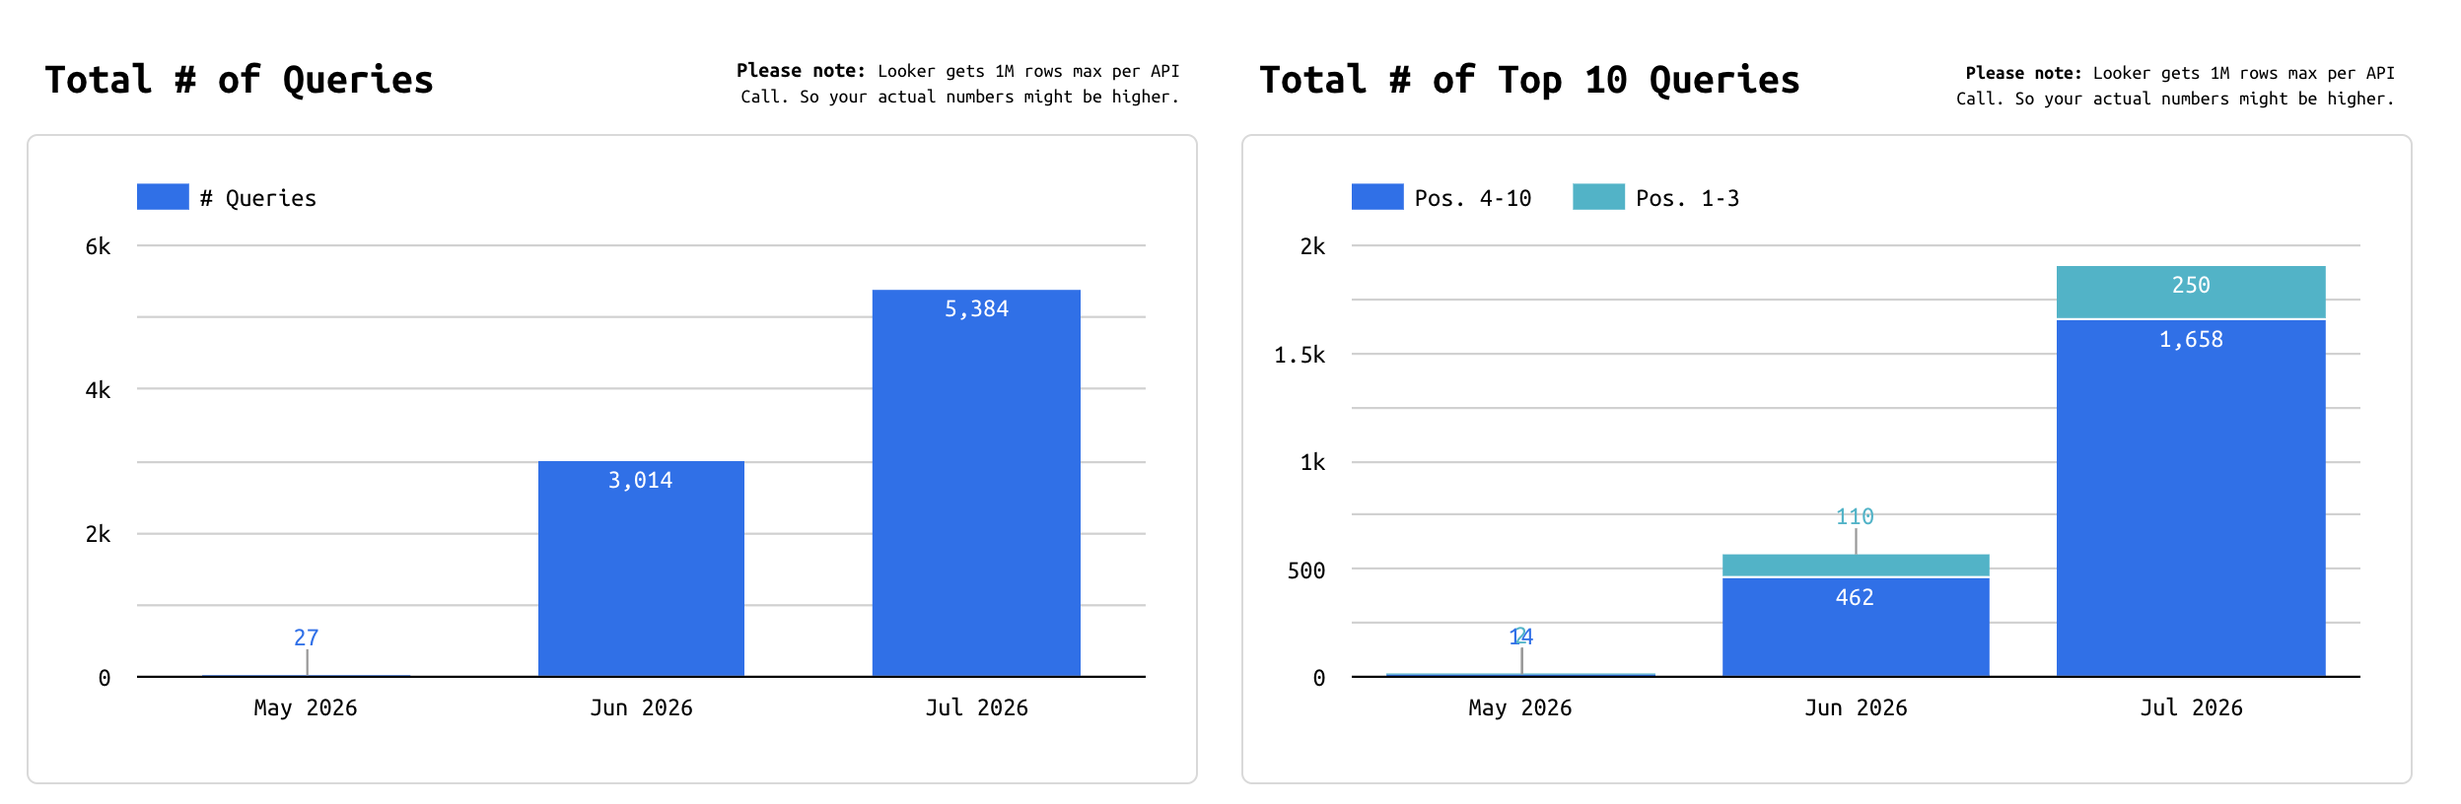
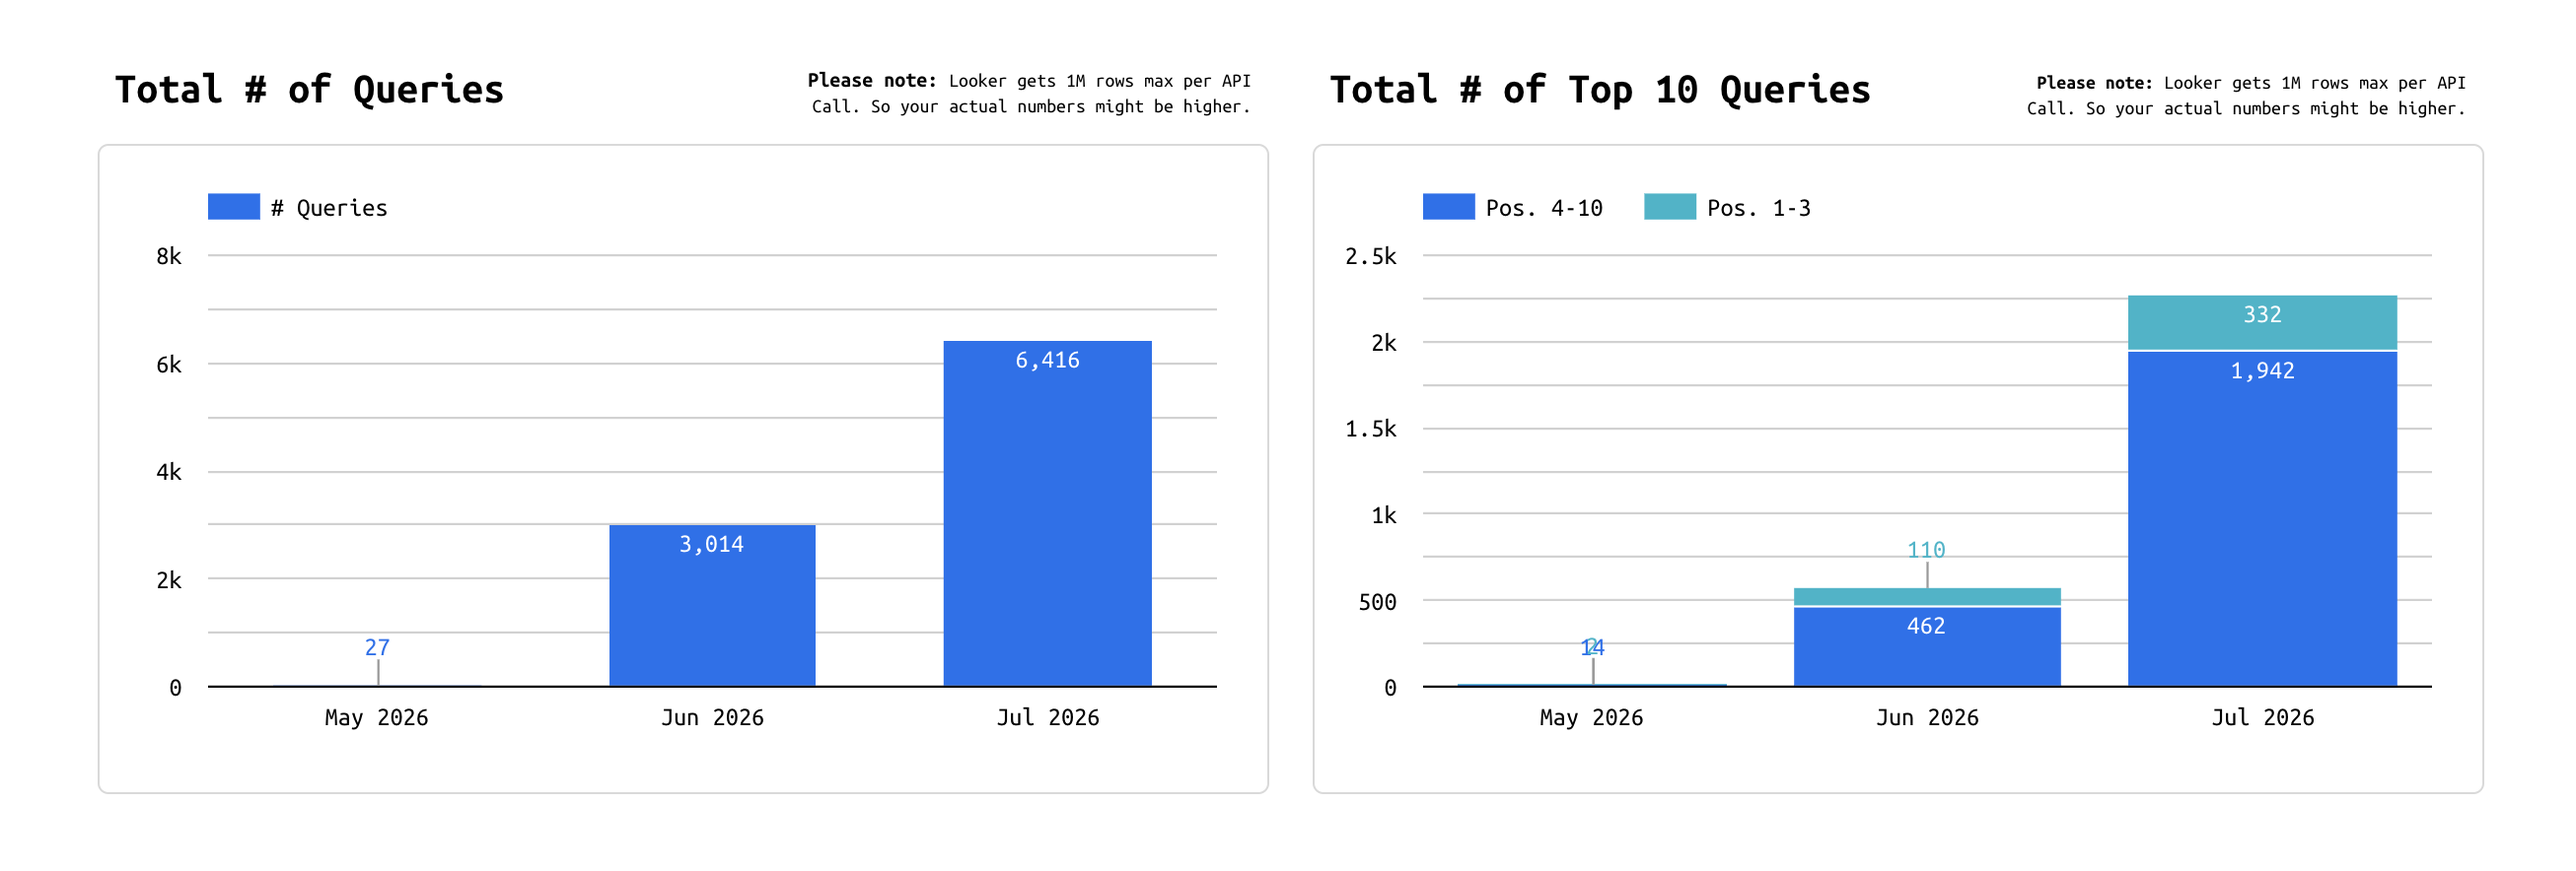
services: refresh proof numbers to 26 Jul 2026 data
Bump the single-source-of-truth proof-stats to the latest GSC/Bing figures
(propagates to all 4 service pages + OG images + ProofResults band):
- Bing AI citations 11.5K→13.4K, avg cited pages 23→24
- Google ranked queries 5,384→6,416, top-10 1,908→2,274, top-3 250→332
- content counts EN 115→120, FR 49→50 (glossary 57), asOf →26 Jul
- swap Bing (13.4K) + GSC queries-growth screenshots; update dims/refs

Also fix a pre-existing mislabel: impressions/day (9,400) is a Google+Bing
blend, not GSC-only — relabel source "Google + Bing (combined)" + scope the
provenance footnote so nothing claims it's Search-Console-verifiable.

Claude-Session: https://claude.ai/code/session_01KDKVTYaWYg1UqUVuF9tQQZ

diff --git a/app/(marketing)/services/ai-automation-agency/page.tsx b/app/(marketing)/services/ai-automation-agency/page.tsx
@@ -393,8 +393,8 @@ export default function AiAutomationAgencyPage() {
                     <div className="bg-white p-2">
                       <Image
                         src="/services/automation/gsc-queries-growth-2026-07.png"
-                        width={2496}
-                        height={816}
+                        width={2612}
+                        height={884}
                         alt={`Google Search Console chart: queries ranked for geotoolbox.ai growing from 27 in May 2026 to ${fmt(proofStats.google.rankedKeywords)} in July 2026 — content produced by the article-writing skill.`}
                         fetchPriority="high"
                         sizes="(min-width: 1024px) min(48vw, 720px), 100vw"
@@ -617,9 +617,9 @@ export default function AiAutomationAgencyPage() {
             {[
               {
                 chrome: "Bing WMT · AI Performance",
-                src: "/services/automation/bing-ai-citations-11.5k-2026-07.png",
-                width: 2666,
-                height: 722,
+                src: "/services/automation/bing-ai-citations-13.4k-2026-07.png",
+                width: 2646,
+                height: 928,
                 alt: `Bing Webmaster Tools AI Performance report: ~${fmt(proofStats.aiCitations.total)} total AI-citation appearances and ${proofStats.aiCitations.avgCitedPages} average cited pages over a trailing ${proofStats.aiCitations.windowDays}-day window.`,
                 caption: `~${fmt(proofStats.aiCitations.total)} AI-citation appearances · trailing ${proofStats.aiCitations.windowDays}-day Bing sample (Copilot + partners) · not unique citations.`,
               },

diff --git a/lib/proof-stats.ts b/lib/proof-stats.ts
@@ -26,16 +26,19 @@
  */
 
 export const proofStats = {
-  asOf: "23 Jul 2026",
+  asOf: "26 Jul 2026",
   // Google Search Console — verifiable, unique. Fresh zero-authority domain
   // (indexed since April 2026, near-zero traffic until publishing began);
   // about 7 weeks of active content publishing produced these Google figures.
-  google: { rankedKeywords: 5384, top10: 1908, top3: 250, dailyImpressions: 9400 },
+  // NOTE: `dailyImpressions` is a Google + Bing BLENDED daily figure — do NOT
+  // recompute it from GSC alone (GSC-only is materially lower). Bump only from
+  // the combined dashboard.
+  google: { rankedKeywords: 6416, top10: 2274, top3: 332, dailyImpressions: 9400 },
   // Bing Webmaster Tools "AI Performance" — Microsoft Copilot + partner AI assistants.
   // NOTE: total citation APPEARANCES over a trailing 30 days, a SAMPLE, NOT unique citations.
   aiCitations: {
-    total: 11500,
-    avgCitedPages: 23,
+    total: 13400,
+    avgCitedPages: 24,
     windowDays: 30,
     source: "Microsoft Copilot and partners",
     sampled: true,
@@ -57,4 +60,4 @@ export type ProofStats = typeof proofStats
 // Published content counts — counted on disk (content/blog, content/fr/blog,
 // content/glossary). Shared by /services/ai-automation-agency (page + OG image)
 // so the figures can't drift between surfaces. Re-count when bumping.
-export const contentCounts = { en: 115, fr: 49, glossary: 57, asOf: "23 Jul 2026" } as const
+export const contentCounts = { en: 120, fr: 50, glossary: 57, asOf: "26 Jul 2026" } as const

diff --git a/components/services/proof-results.tsx b/components/services/proof-results.tsx
@@ -28,7 +28,7 @@ export function ProofResults() {
       source: `Bing WMT · ${aiCitations.source} · ${aiCitations.windowDays}-day sample`,
       tag: `${aiCitations.windowDays}-day sample`,
     },
-    { value: `~${fmt(google.dailyImpressions)}`, label: "Impressions per day", source: "Google Search Console" },
+    { value: `~${fmt(google.dailyImpressions)}`, label: "Impressions per day", source: "Google + Bing (combined)", tag: "combined" },
   ]
 
   return (
@@ -95,8 +95,9 @@ export function ProofResults() {
         {/* Provenance footnotes */}
         <div className="mt-14 max-w-3xl border-t border-white/10 pt-6">
           <p className="text-[13px] font-medium text-gray-400">
-            As of {asOf}. Google figures are from Google Search Console — deduplicated and verifiable in
-            Search Console.
+            As of {asOf}. The keyword and first-page figures are from Google Search Console —
+            deduplicated and verifiable in Search Console. Impressions per day is a combined Google
+            Search Console + Bing Webmaster Tools daily figure.
           </p>
           <p className="mt-2 text-[13px] leading-relaxed text-gray-400">
             The ~{fmt(aiCitations.total)} AI-citation figure is a {aiCitations.windowDays}-day sample
